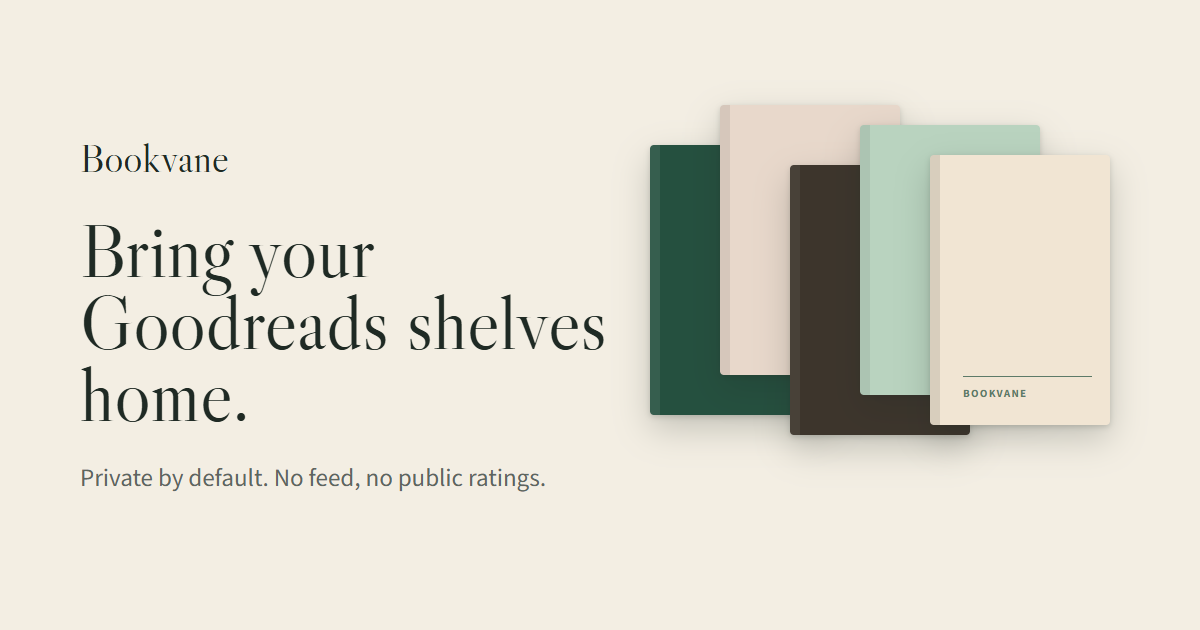
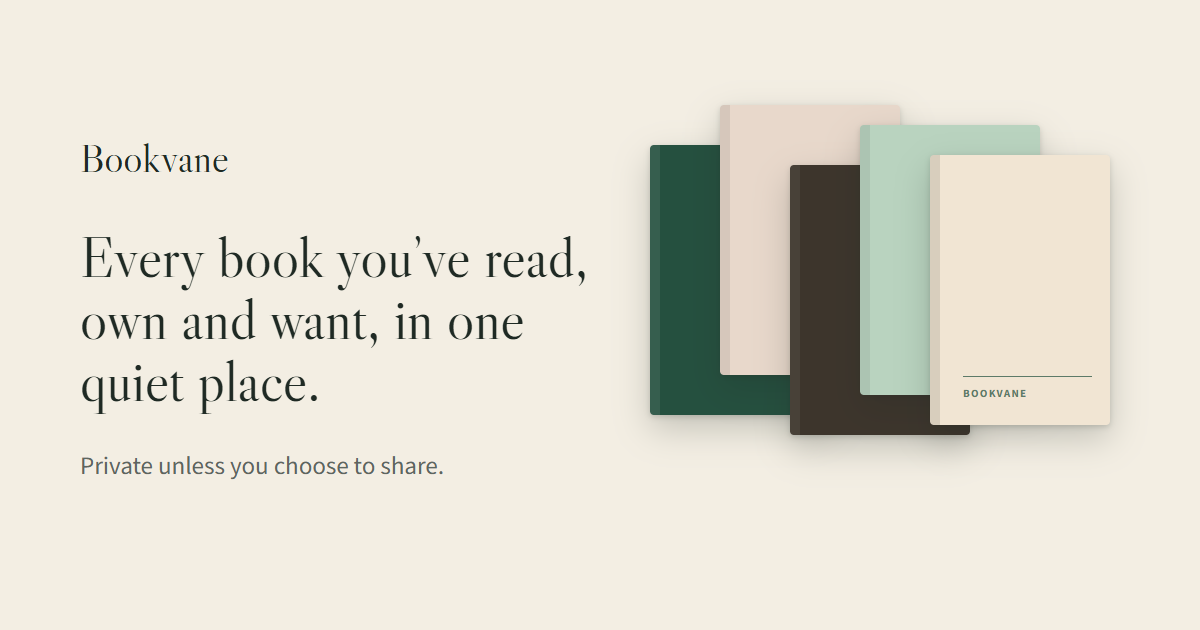
T74: og-home uses the live landing copy; /switch classes renamed (bv-switch was the toggle-switch control: it collapsed the page and drew a grey bar); layout test

Changed region(s): [[0.0617, 0.3619, 0.5242, 0.6937], [0.0617, 0.7238, 0.4625, 0.7841]]

diff --git a/frontend/src/styles/ui-v2/switch.css b/frontend/src/styles/ui-v2/switch.css
@@ -1,27 +1,27 @@
 /* /switch: one narrow column on the paper, the way the landing page sits. Tokens only. */
-.bv-root .bv-switch { padding-top: 56px; padding-bottom: 72px; }
-.bv-root .bv-switch-column { max-width: 720px; margin: 0 auto; }
-.bv-root .bv-switch h1 { font-size: clamp(2.25rem, 5.4vw, 3.5rem); line-height: 1.08; margin: 0 0 20px; }
-.bv-root .bv-switch-lede { font-size: 1.3125rem; line-height: 1.5; color: var(--bv-muted); margin: 0 0 28px; max-width: 40rem; }
-.bv-root .bv-switch-small { margin: 12px 0 0; font-size: var(--bv-fs-helper); color: var(--bv-muted); }
-.bv-root .bv-switch-block { border-top: 1px solid var(--bv-line); margin-top: 48px; padding-top: 36px; }
-.bv-root .bv-switch-block h2 { font-size: 1.875rem; margin: 0 0 24px; }
-.bv-root .bv-switch-steps { list-style: none; counter-reset: step; margin: 0; padding: 0; display: grid; gap: 24px; }
-.bv-root .bv-switch-steps li { counter-increment: step; position: relative; display: grid; gap: 4px; padding-left: 60px; min-height: 44px; }
-.bv-root .bv-switch-steps li::before { content: counter(step); position: absolute; left: 0; top: 0; width: 44px; height: 44px; border-radius: 50%; display: grid; place-items: center; background: var(--bv-soft); font: 400 1.25rem/1 var(--bv-display); }
-.bv-root .bv-switch-steps strong { font-size: var(--bv-fs-title); }
-.bv-root .bv-switch-steps span { color: var(--bv-muted); }
-.bv-root .bv-switch-across { margin: 0; padding-left: 22px; display: grid; gap: 10px; list-style: disc; }
-.bv-root .bv-switch-close { display: flex; align-items: center; justify-content: space-between; gap: 20px; flex-wrap: wrap; margin-top: 48px; padding: 28px; border-radius: var(--bv-radius-sheet); background: var(--bv-sheet); }
-.bv-root .bv-switch-close p { margin: 0; font: 400 1.5rem/1.2 var(--bv-display); }
+.bv-root .bv-leave { padding-top: 56px; padding-bottom: 72px; }
+.bv-root .bv-leave-column { max-width: 720px; margin: 0 auto; }
+.bv-root .bv-leave h1 { font-size: clamp(2.25rem, 5.4vw, 3.5rem); line-height: 1.08; margin: 0 0 20px; }
+.bv-root .bv-leave-lede { font-size: 1.3125rem; line-height: 1.5; color: var(--bv-muted); margin: 0 0 28px; max-width: 40rem; }
+.bv-root .bv-leave-small { margin: 12px 0 0; font-size: var(--bv-fs-helper); color: var(--bv-muted); }
+.bv-root .bv-leave-block { border-top: 1px solid var(--bv-line); margin-top: 48px; padding-top: 36px; }
+.bv-root .bv-leave-block h2 { font-size: 1.875rem; margin: 0 0 24px; }
+.bv-root .bv-leave-steps { list-style: none; counter-reset: step; margin: 0; padding: 0; display: grid; gap: 24px; }
+.bv-root .bv-leave-steps li { counter-increment: step; position: relative; display: grid; gap: 4px; padding-left: 60px; min-height: 44px; }
+.bv-root .bv-leave-steps li::before { content: counter(step); position: absolute; left: 0; top: 0; width: 44px; height: 44px; border-radius: 50%; display: grid; place-items: center; background: var(--bv-soft); font: 400 1.25rem/1 var(--bv-display); }
+.bv-root .bv-leave-steps strong { font-size: var(--bv-fs-title); }
+.bv-root .bv-leave-steps span { color: var(--bv-muted); }
+.bv-root .bv-leave-across { margin: 0; padding-left: 22px; display: grid; gap: 10px; list-style: disc; }
+.bv-root .bv-leave-close { display: flex; align-items: center; justify-content: space-between; gap: 20px; flex-wrap: wrap; margin-top: 48px; padding: 28px; border-radius: var(--bv-radius-sheet); background: var(--bv-sheet); }
+.bv-root .bv-leave-close p { margin: 0; font: 400 1.5rem/1.2 var(--bv-display); }
 @media (max-width: 700px) {
-  .bv-root .bv-switch { padding-top: 32px; padding-bottom: 48px; }
-  .bv-root .bv-switch-lede { font-size: var(--bv-fs-title); }
-  .bv-root .bv-switch-block { margin-top: 36px; padding-top: 28px; }
-  .bv-root .bv-switch-block h2 { font-size: 1.5rem; }
-  .bv-root .bv-switch-steps li { padding-left: 54px; }
-  .bv-root .bv-switch-close { padding: 22px 20px; }
-  .bv-root .bv-switch-close .bv-button, .bv-root .bv-switch > .bv-switch-column > .bv-button { width: 100%; justify-content: center; }
+  .bv-root .bv-leave { padding-top: 32px; padding-bottom: 48px; }
+  .bv-root .bv-leave-lede { font-size: var(--bv-fs-title); }
+  .bv-root .bv-leave-block { margin-top: 36px; padding-top: 28px; }
+  .bv-root .bv-leave-block h2 { font-size: 1.5rem; }
+  .bv-root .bv-leave-steps li { padding-left: 54px; }
+  .bv-root .bv-leave-close { padding: 22px 20px; }
+  .bv-root .bv-leave-close .bv-button, .bv-root .bv-leave > .bv-leave-column > .bv-button { width: 100%; justify-content: center; }
 }
 
 .bv-root .bv-footer-links { display: flex; flex-wrap: wrap; gap: 4px 24px; align-items: center; }

diff --git a/frontend/tests/growth-pack.spec.js b/frontend/tests/growth-pack.spec.js
@@ -37,10 +37,10 @@ test("/switch signed out: the words, the two buttons go to sign-up with src=swit
   await expect(page.getByText("Bring your library with you. Your shelves, reading dates and notes come across, and everything stays private to you.")).toBeVisible();
   await expect(page.getByText("Bookvane never asks for your Goodreads login.")).toBeVisible();
   await expect(page.getByRole("heading", { level: 2, name: "Three steps" })).toBeVisible();
-  await expect(page.locator(".bv-switch-steps li")).toHaveCount(3);
+  await expect(page.locator(".bv-leave-steps li")).toHaveCount(3);
   await expect(page.getByText("Up to 20,000 books. You’ll see a summary before anything is added.")).toBeVisible();
   await expect(page.getByRole("heading", { level: 2, name: "What comes across" })).toBeVisible();
-  await expect(page.locator(".bv-switch-across li")).toHaveText(["Your shelves: read, reading and want to read", "Books you own", "Start and finish dates, including re-reads", "Your reviews and notes come along too, kept with the book"]);
+  await expect(page.locator(".bv-leave-across li")).toHaveText(["Your shelves: read, reading and want to read", "Books you own", "Start and finish dates, including re-reads", "Your reviews and notes come along too, kept with the book"]);
   await expect(page.getByText("Ready when you are.")).toBeVisible();
   const buttons = page.getByRole("link", { name: "Start your import", exact: true });
   await expect(buttons).toHaveCount(2);
@@ -74,6 +74,16 @@ test("leaving /switch puts the page's own description back, and the footer links
 test("the landing page's Import my library opens /switch for a signed-out visitor", async ({ page, app: _app }) => {
   await page.goto("/");
   for (const link of await page.getByRole("link", { name: "Import my library", exact: true }).all()) await expect(link).toHaveAttribute("href", "/switch");
+});
+
+for (const width of [1440, 390]) test(`/switch lays out as a normal page at ${width}: the content is its own height and the footer comes after it`, async ({ page, app: _app }) => {
+  await page.setViewportSize({ width, height: 900 });
+  await page.goto("/switch");
+  await expect(page.getByRole("heading", { level: 1 })).toBeVisible();
+  const box = await page.evaluate(() => { const section = document.querySelector(".bv-leave"), close = document.querySelector(".bv-leave-close").getBoundingClientRect(), footer = document.querySelector(".bv-footer").getBoundingClientRect(), style = getComputedStyle(section); return { sectionHeight: section.getBoundingClientRect().height, background: style.backgroundColor, closeBottom: close.bottom + scrollY, footerTop: footer.top + scrollY }; });
+  expect(box.sectionHeight).toBeGreaterThan(600);                         // not a 24px switch control: the page's own class
+  expect(box.background).toBe("rgba(0, 0, 0, 0)");
+  expect(box.footerTop).toBeGreaterThanOrEqual(box.closeBottom);          // the footer sits after the content
 });
 
 test("/switch is in the sitemap", () => {

diff --git a/frontend/src/components/ui-v2/SwitchPage.jsx b/frontend/src/components/ui-v2/SwitchPage.jsx
@@ -31,21 +31,21 @@ export default function SwitchPage() {
     const undo = [setMeta("name", "description", SWITCH_COPY.description), setMeta("property", "og:title", `${SWITCH_COPY.title} · Bookvane`), setMeta("property", "og:description", SWITCH_COPY.description)];
     return () => undo.forEach(restore => restore());
   }, []);
-  return <section className="bv-container bv-switch">
-    <div className="bv-switch-column">
+  return <section className="bv-container bv-leave">
+    <div className="bv-leave-column">
       <h1>{SWITCH_COPY.heading}</h1>
-      <p className="bv-switch-lede">{SWITCH_COPY.lede}</p>
+      <p className="bv-leave-lede">{SWITCH_COPY.lede}</p>
       <ActionLink to={target}>{SWITCH_COPY.button}</ActionLink>
-      <p className="bv-switch-small">{SWITCH_COPY.login}</p>
-      <section className="bv-switch-block" aria-labelledby="bv-switch-steps">
-        <h2 id="bv-switch-steps">{SWITCH_COPY.stepsHeading}</h2>
-        <ol className="bv-switch-steps" role="list">{SWITCH_COPY.steps.map(([title, text]) => <li key={title}><strong>{title}</strong><span>{text}</span></li>)}</ol>
+      <p className="bv-leave-small">{SWITCH_COPY.login}</p>
+      <section className="bv-leave-block" aria-labelledby="bv-leave-steps">
+        <h2 id="bv-leave-steps">{SWITCH_COPY.stepsHeading}</h2>
+        <ol className="bv-leave-steps" role="list">{SWITCH_COPY.steps.map(([title, text]) => <li key={title}><strong>{title}</strong><span>{text}</span></li>)}</ol>
       </section>
-      <section className="bv-switch-block" aria-labelledby="bv-switch-across">
-        <h2 id="bv-switch-across">{SWITCH_COPY.acrossHeading}</h2>
-        <ul className="bv-switch-across">{SWITCH_COPY.across.map(line => <li key={line}>{line}</li>)}</ul>
+      <section className="bv-leave-block" aria-labelledby="bv-leave-across">
+        <h2 id="bv-leave-across">{SWITCH_COPY.acrossHeading}</h2>
+        <ul className="bv-leave-across">{SWITCH_COPY.across.map(line => <li key={line}>{line}</li>)}</ul>
       </section>
-      <aside className="bv-switch-close"><p>{SWITCH_COPY.closing}</p><ActionLink to={target}>{SWITCH_COPY.button}</ActionLink></aside>
+      <aside className="bv-leave-close"><p>{SWITCH_COPY.closing}</p><ActionLink to={target}>{SWITCH_COPY.button}</ActionLink></aside>
     </div>
   </section>;
 }
